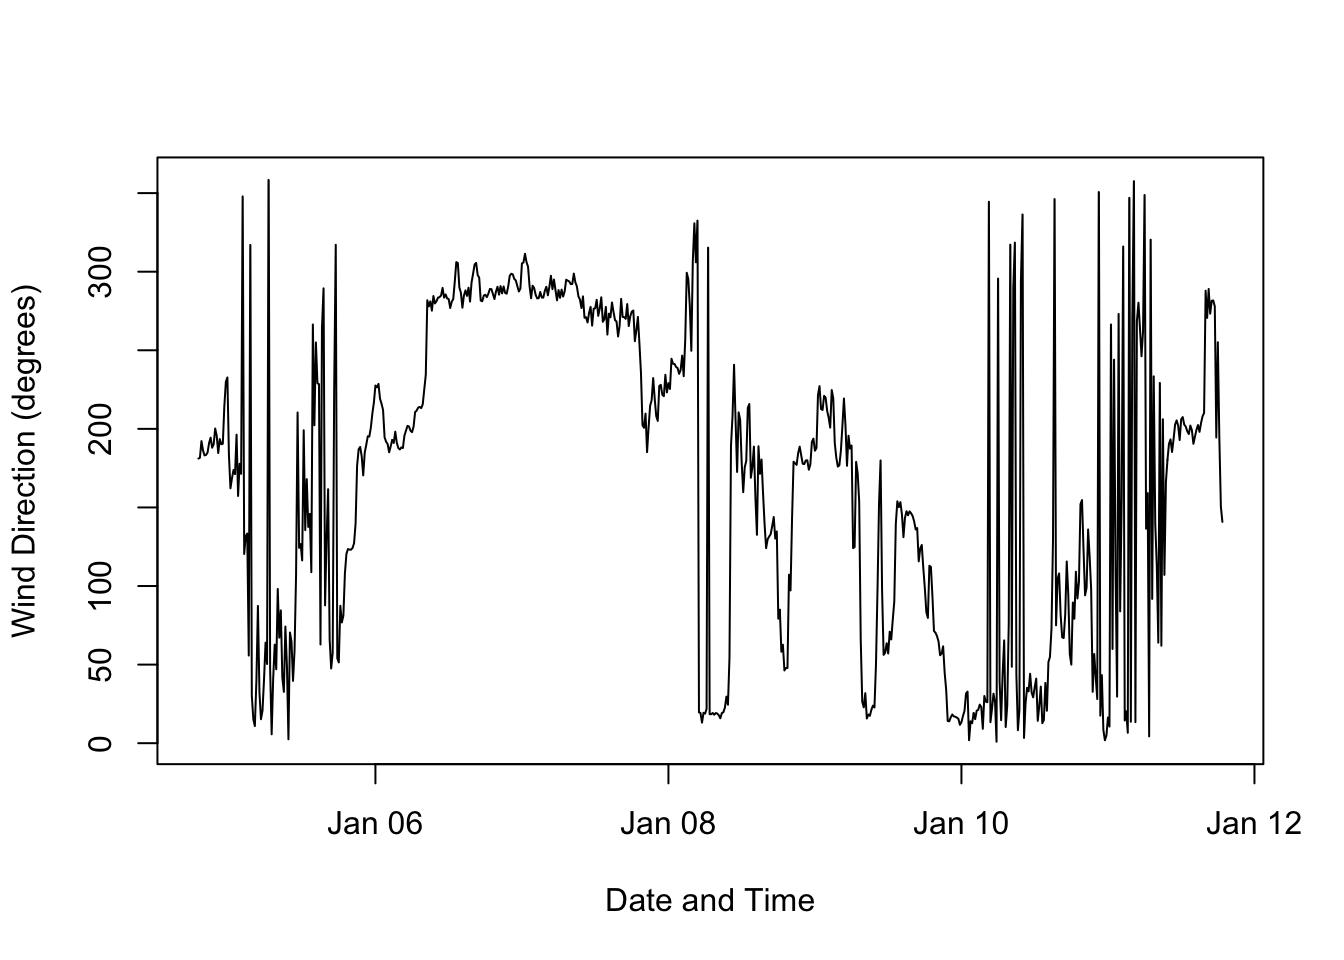
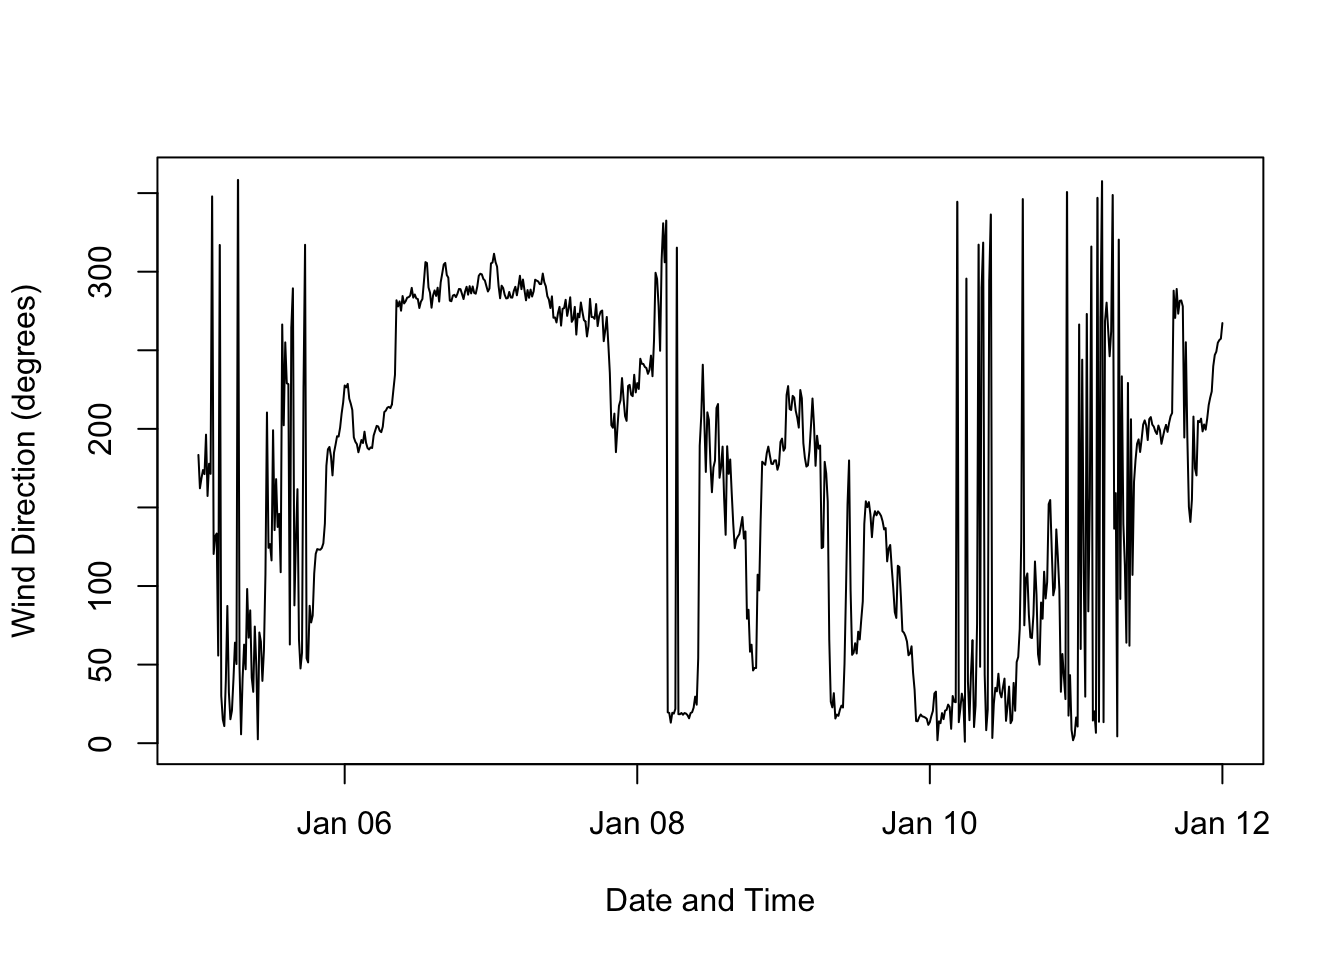
commit graphics after finishing number 5

diff --git a/docs/Graphics.html b/docs/Graphics.html
@@ -105,7 +105,7 @@ pre > code.sourceCode > span > a:first-child::before { text-decoration: underlin
 
 <section id="graphics-assignment" class="level2">
 <h2 class="anchored" data-anchor-id="graphics-assignment">Graphics Assignment</h2>
-<p>Calling in Packages and Rice Function.</p>
+<p>Calling in Packages and Rice Function. (Hidden)</p>
 <p>Total Rain for Each Weekday in January. (Base R)</p>
 <div class="cell">
 <div class="sourceCode cell-code" id="cb1"><pre class="sourceCode r code-with-copy"><code class="sourceCode r"><span id="cb1-1"><a href="#cb1-1" aria-hidden="true" tabindex="-1"></a><span class="co"># Filter for January data and calculate total rainfall per weekday</span></span>
@@ -268,8 +268,8 @@ pre > code.sourceCode > span > a:first-child::before { text-decoration: underlin
 <div class="cell">
 <div class="sourceCode cell-code" id="cb11"><pre class="sourceCode r code-with-copy"><code class="sourceCode r"><span id="cb11-1"><a href="#cb11-1" aria-hidden="true" tabindex="-1"></a><span class="co"># Filter for the specific time period from January 5th to 11th</span></span>
 <span id="cb11-2"><a href="#cb11-2" aria-hidden="true" tabindex="-1"></a>week_data <span class="ot">&lt;-</span> rice_cleaned <span class="sc">%&gt;%</span></span>
-<span id="cb11-3"><a href="#cb11-3" aria-hidden="true" tabindex="-1"></a>  <span class="fu">filter</span>(DateTime <span class="sc">&gt;=</span> <span class="fu">ymd_hms</span>(<span class="st">"2014-01-05 00:00:00"</span>) <span class="sc">&amp;</span></span>
-<span id="cb11-4"><a href="#cb11-4" aria-hidden="true" tabindex="-1"></a>         DateTime <span class="sc">&lt;=</span> <span class="fu">ymd_hms</span>(<span class="st">"2014-01-11 23:59:59"</span>)) <span class="sc">%&gt;%</span></span>
+<span id="cb11-3"><a href="#cb11-3" aria-hidden="true" tabindex="-1"></a>  <span class="fu">filter</span>(DateTime <span class="sc">&gt;=</span> <span class="fu">ymd_hms</span>(<span class="st">"2014-01-05 05:00:00"</span>) <span class="sc">&amp;</span></span>
+<span id="cb11-4"><a href="#cb11-4" aria-hidden="true" tabindex="-1"></a>         DateTime <span class="sc">&lt;=</span> <span class="fu">ymd_hms</span>(<span class="st">"2014-01-12 05:00:00"</span>)) <span class="sc">%&gt;%</span></span>
 <span id="cb11-5"><a href="#cb11-5" aria-hidden="true" tabindex="-1"></a>  <span class="fu">mutate</span>(<span class="at">Time =</span> <span class="fu">format</span>(DateTime, <span class="st">"%H:%M"</span>))</span>
 <span id="cb11-6"><a href="#cb11-6" aria-hidden="true" tabindex="-1"></a></span>
 <span id="cb11-7"><a href="#cb11-7" aria-hidden="true" tabindex="-1"></a><span class="fu">plot</span>(week_data<span class="sc">$</span>DateTime, week_data<span class="sc">$</span>WindDir,</span>
@@ -283,6 +283,23 @@ pre > code.sourceCode > span > a:first-child::before { text-decoration: underlin
 </div>
 </div>
 <p>Wind Direction during the week containing the 8th of January. (ggplot)</p>
+<div class="cell">
+<div class="sourceCode cell-code" id="cb12"><pre class="sourceCode r code-with-copy"><code class="sourceCode r"><span id="cb12-1"><a href="#cb12-1" aria-hidden="true" tabindex="-1"></a><span class="fu">ggplot</span>(week_data, <span class="fu">aes</span>(<span class="at">x =</span> <span class="fu">factor</span>(WindDir))) <span class="sc">+</span></span>
+<span id="cb12-2"><a href="#cb12-2" aria-hidden="true" tabindex="-1"></a>  <span class="fu">geom_bar</span>(<span class="at">width =</span> <span class="fl">0.8</span>, <span class="at">fill =</span> <span class="st">"darkgreen"</span>) <span class="sc">+</span></span>
+<span id="cb12-3"><a href="#cb12-3" aria-hidden="true" tabindex="-1"></a>  <span class="fu">coord_polar</span>(<span class="at">start =</span> <span class="dv">0</span>, <span class="at">direction =</span> <span class="dv">1</span>) <span class="sc">+</span></span>
+<span id="cb12-4"><a href="#cb12-4" aria-hidden="true" tabindex="-1"></a>  <span class="fu">theme_classic</span>() <span class="sc">+</span></span>
+<span id="cb12-5"><a href="#cb12-5" aria-hidden="true" tabindex="-1"></a>  <span class="fu">labs</span>(<span class="at">title =</span> <span class="st">"Wind Direction Distribution"</span>,</span>
+<span id="cb12-6"><a href="#cb12-6" aria-hidden="true" tabindex="-1"></a>       <span class="at">x =</span> <span class="st">"Wind Direction (Degrees)"</span>,</span>
+<span id="cb12-7"><a href="#cb12-7" aria-hidden="true" tabindex="-1"></a>       <span class="at">y =</span> <span class="st">"Frequency"</span>) <span class="sc">+</span></span>
+<span id="cb12-8"><a href="#cb12-8" aria-hidden="true" tabindex="-1"></a>  <span class="fu">annotate</span>(<span class="at">geom =</span> <span class="st">"text"</span>, <span class="at">x =</span> <span class="dv">1</span>, <span class="at">y =</span> <span class="dv">0</span>, <span class="at">label =</span> <span class="st">"N"</span>, <span class="at">size =</span> <span class="dv">4</span>, <span class="at">angle =</span> <span class="sc">-</span><span class="dv">45</span>)</span></code><button title="Copy to Clipboard" class="code-copy-button"><i class="bi"></i></button></pre></div>
+<div class="cell-output-display">
+<div>
+<figure class="figure">
+<p><img src="Graphics_files/figure-html/unnamed-chunk-10-1.png" class="img-fluid figure-img" width="672"></p>
+</figure>
+</div>
+</div>
+</div>
 </section>
 
 </main>
